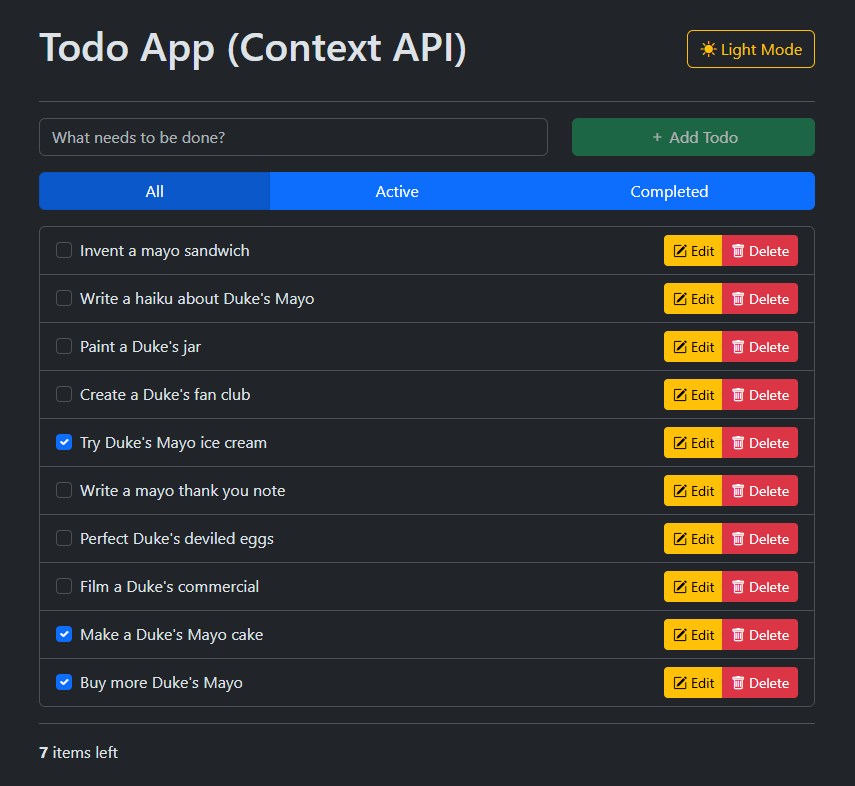
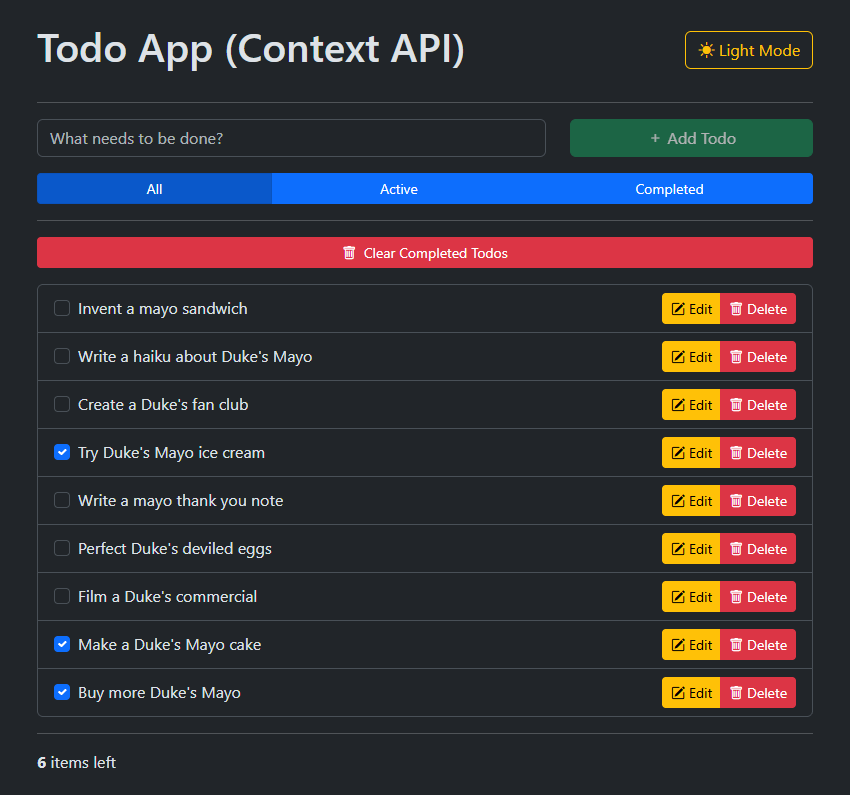
Some stylistic tweaks; added new preview image.

diff --git a/context-api-implementation/src/components/FilterButtons.tsx b/context-api-implementation/src/components/FilterButtons.tsx
@@ -18,7 +18,7 @@ const FilterButtons = () => {
       <div className="btn-group w-100" role="group" aria-label="Filter todos.">
         <button
           type="button"
-          className={`btn btn-primary ${filter === "all" ? "active" : null}`}
+          className={`btn btn-sm btn-primary ${filter === "all" ? "active" : null}`}
           value="all"
           onClick={() => handleFilterChange("all")}>
           All
@@ -26,7 +26,7 @@ const FilterButtons = () => {
 
         <button
           type="button"
-          className={`btn btn-primary ${filter === "active" ? "active" : null}`}
+          className={`btn btn-sm btn-primary ${filter === "active" ? "active" : null}`}
           value="active"
           onClick={() => handleFilterChange("active")}>
           Active
@@ -34,7 +34,7 @@ const FilterButtons = () => {
 
         <button
           type="button"
-          className={`btn btn-primary ${
+          className={`btn btn-sm btn-primary ${
             filter === "completed" ? "active" : null
           }`}
           value="completed"

diff --git a/context-api-implementation/src/components/TodoList.tsx b/context-api-implementation/src/components/TodoList.tsx
@@ -3,6 +3,7 @@ import TodoItem from "./TodoItem"
 import TodoContext from "../contexts/TodoContext"
 import FilterContext from "../contexts/FilterContext"
 import type { FilterContextType, TodoContextType, Todo } from "../types"
+import { BOOTSTRAP_ICON } from "../constants"
 
 const TodoList = () => {
   const { todos, clearCompleted } = useContext<TodoContextType>(TodoContext)
@@ -44,7 +45,7 @@ const TodoList = () => {
           onClick={() => {
             if (clearCompleted) clearCompleted()
           }}>
-          Clear completed todos
+          <i className={BOOTSTRAP_ICON.trash}></i>&nbsp; Clear Completed Todos
         </button>
       </div>
       <div>

diff --git a/context-api-implementation/src/App.tsx b/context-api-implementation/src/App.tsx
@@ -22,6 +22,7 @@ const App = () => {
             <TodoInput />
             <FilterContextProvider>
               <FilterButtons />
+              <hr />
               <TodoList />
             </FilterContextProvider>
           </TodoContextProvider>
